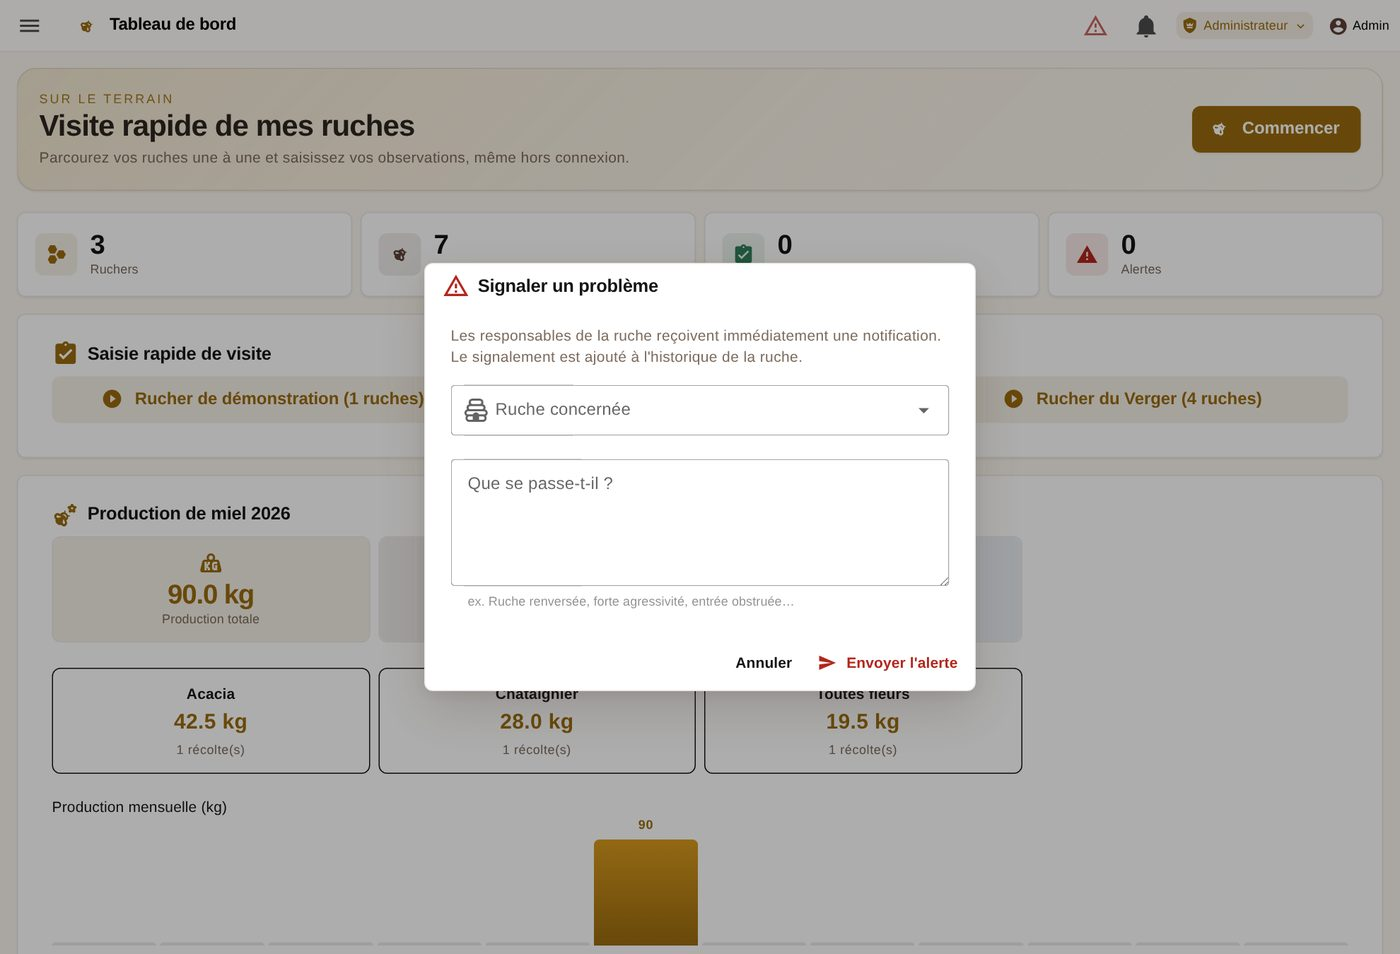
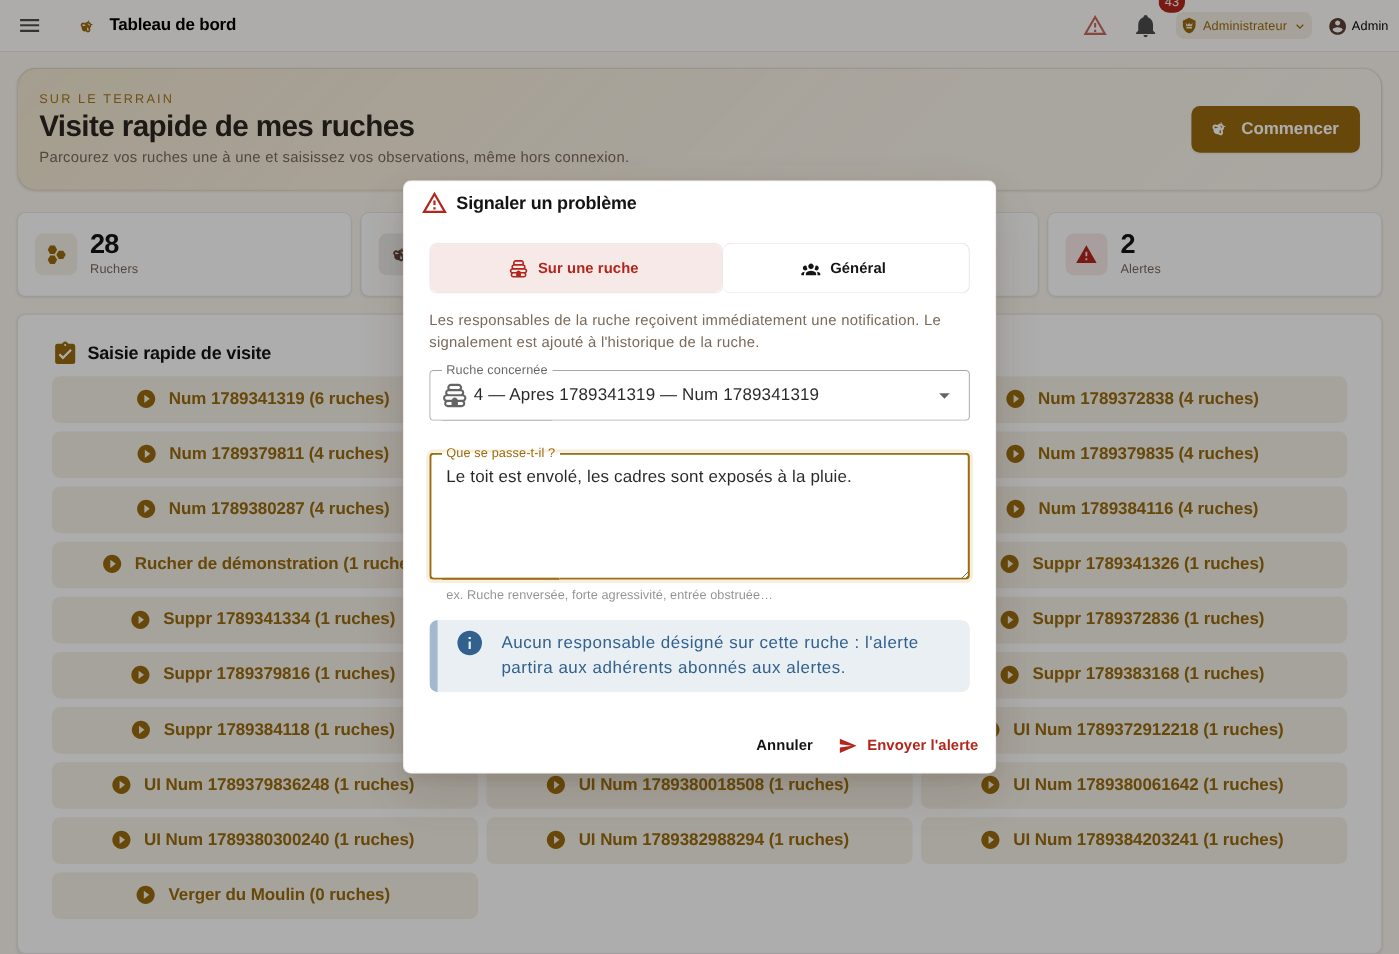
Signalement général, sans passer par une ruche
Signaler supposait de désigner une colonie. Une clôture ouverte, un
chemin impraticable, un enfumoir manquant n'ont pourtant rien à faire
dans l'historique d'une ruche : les y inscrire fausse le suivi de la
colonie, et l'information n'arrive pas aux bonnes personnes.

La fenêtre « Signaler » propose donc deux types. « Sur une ruche »
inchangé. « Général » prévient les administrateurs et les responsables
de rucher, et n'écrit rien dans l'historique d'une ruche : c'est une
notification, pas une observation.

Un rucher peut être désigné, sans être obligatoire — le signalement peut
concerner l'association entière. Quand il l'est, les responsables de ses
ruches sont prévenus en plus du bureau : ce sont eux qui sont sur place.
Un encadré annonce qui sera notifié avant l'envoi, comme pour l'alerte
sur une ruche : on ne signale pas dans le vide.

La trace va au journal d'activité, pas dans la ruche.

Claude-Session: https://claude.ai/code/session_01Cjb3j3YXGNGFMCv5gLZbMm

diff --git a/frontend/src/components/HiveAlertDialog.vue b/frontend/src/components/HiveAlertDialog.vue
@@ -1,5 +1,5 @@
 <template>
-  <v-dialog v-model="open" max-width="520">
+  <v-dialog v-model="open" max-width="560">
     <v-card>
       <v-card-title class="d-flex align-center">
         <v-icon class="mr-2" color="error">mdi-alert-outline</v-icon>
@@ -7,34 +7,77 @@
       </v-card-title>
 
       <v-card-text>
-        <p class="text-body-2 r-muted mb-4">
-          Les responsables de la ruche reçoivent immédiatement une notification.
-          Le signalement est ajouté à l'historique de la ruche.
-        </p>
+        <!-- Tout ne se passe pas dans une ruche : une clôture cassée ou un
+             voisin mécontent n'a rien à faire dans l'historique d'une colonie. -->
+        <v-btn-toggle
+          v-model="mode" mandatory divided variant="outlined"
+          color="error" class="d-flex mb-4"
+        >
+          <v-btn value="hive" class="flex-grow-1" prepend-icon="mdi-beehive-outline">
+            Sur une ruche
+          </v-btn>
+          <v-btn value="general" class="flex-grow-1" prepend-icon="mdi-account-group">
+            Général
+          </v-btn>
+        </v-btn-toggle>
 
-        <v-autocomplete
-          v-model="hiveId"
-          :items="hiveOptions"
-          item-title="label"
-          item-value="id"
-          label="Ruche concernée"
-          prepend-inner-icon="mdi-beehive-outline"
-          :loading="loading"
-          :error-messages="hiveError"
-        />
+        <!-- ── Signalement sur une ruche ── -->
+        <template v-if="mode === 'hive'">
+          <p class="text-body-2 r-muted mb-4">
+            Les responsables de la ruche reçoivent immédiatement une notification.
+            Le signalement est ajouté à l'historique de la ruche.
+          </p>
+
+          <v-autocomplete
+            v-model="hiveId"
+            :items="hiveOptions"
+            item-title="label"
+            item-value="id"
+            label="Ruche concernée"
+            prepend-inner-icon="mdi-beehive-outline"
+            :loading="loading"
+            :error-messages="hiveError"
+          />
+        </template>
+
+        <!-- ── Signalement général ── -->
+        <template v-else>
+          <p class="text-body-2 r-muted mb-4">
+            Pour ce qui ne concerne pas une colonie : clôture, accès, matériel
+            commun, voisinage, point à passer au bureau. <b>Rien n'est écrit
+            dans l'historique d'une ruche.</b>
+          </p>
+
+          <v-select
+            v-model="apiaryId"
+            :items="apiaryOptions"
+            item-title="name"
+            item-value="id"
+            label="Rucher concerné (facultatif)"
+            prepend-inner-icon="mdi-hexagon-multiple"
+            :loading="loading"
+            clearable
+            hint="Laissez vide si le signalement concerne l'association en général."
+            persistent-hint
+            class="mb-2"
+          />
+        </template>
 
         <v-textarea
           v-model="message"
           label="Que se passe-t-il ?"
-          hint="ex. Ruche renversée, forte agressivité, entrée obstruée…"
+          :hint="mode === 'hive'
+            ? 'ex. Ruche renversée, forte agressivité, entrée obstruée…'
+            : 'ex. Clôture ouverte, chemin impraticable, enfumoir manquant…'"
           persistent-hint
           rows="4"
           maxlength="500"
+          class="mt-2"
           :error-messages="messageError"
         />
 
-        <v-alert v-if="managersHint" type="info" variant="tonal" density="compact">
-          {{ managersHint }}
+        <v-alert v-if="destinataires" type="info" variant="tonal" density="compact" class="mt-4">
+          {{ destinataires }}
         </v-alert>
       </v-card-text>
 
@@ -42,7 +85,7 @@
         <v-spacer />
         <v-btn @click="open = false">Annuler</v-btn>
         <v-btn color="error" :loading="sending" prepend-icon="mdi-send" @click="send">
-          Envoyer l'alerte
+          {{ mode === 'hive' ? "Envoyer l'alerte" : 'Envoyer le signalement' }}
         </v-btn>
       </v-card-actions>
     </v-card>
@@ -57,10 +100,13 @@ import { hiveLabel } from '../services/hive'
 
 const open = defineModel({ type: Boolean, default: false })
 
+const mode = ref('hive')
 const hives = ref([])
+const apiaries = ref([])
 const loading = ref(false)
 const sending = ref(false)
 const hiveId = ref(null)
+const apiaryId = ref(null)
 const message = ref('')
 const hiveError = ref('')
 const messageError = ref('')
@@ -75,8 +121,18 @@ const hiveOptions = computed(() =>
   })),
 )
 
+const apiaryOptions = computed(() => apiaries.value.map((a) => ({ id: a.id, name: a.name })))
+
 // Rappel de qui sera prévenu : on n'envoie pas une alerte « dans le vide ».
-const managersHint = computed(() => {
+const destinataires = computed(() => {
+  if (mode.value === 'general') {
+    const ou = apiaryId.value
+      ? apiaries.value.find((a) => a.id === apiaryId.value)?.name
+      : null
+    return ou
+      ? `Seront notifiés : les administrateurs, les responsables de rucher, et les responsables des ruches du rucher « ${ou} ».`
+      : 'Seront notifiés : les administrateurs et les responsables de rucher.'
+  }
   if (!hiveId.value) return ''
   const h = hives.value.find((x) => x.id === hiveId.value)
   const names = (h?.managers || []).map((m) => m.name).filter(Boolean)
@@ -86,13 +142,17 @@ const managersHint = computed(() => {
   return 'Sera notifié : ' + names.join(', ') + '.'
 })
 
-async function loadHives() {
+async function loadData() {
   loading.value = true
   try {
-    const { data } = await api.get('/apiaries/hives/all')
-    hives.value = data
+    const [h, a] = await Promise.all([
+      api.get('/apiaries/hives/all'),
+      api.get('/apiaries/'),
+    ])
+    hives.value = h.data
+    apiaries.value = a.data
   } catch (e) {
-    toastError(apiError(e, 'Impossible de charger la liste des ruches'))
+    toastError(apiError(e, 'Impossible de charger les ruchers et les ruches'))
   } finally {
     loading.value = false
   }
@@ -100,28 +160,44 @@ async function loadHives() {
 
 watch(hiveId, (v) => { if (v) hiveError.value = '' })
 watch(message, (v) => { if (v && v.trim()) messageError.value = '' })
+// Changer de type de signalement ne doit pas laisser traîner le reproche
+// adressé à l'autre formulaire.
+watch(mode, () => { hiveError.value = ''; messageError.value = '' })
 
 watch(open, (v) => {
   if (!v) return
+  mode.value = 'hive'
   hiveId.value = null
+  apiaryId.value = null
   message.value = ''
   hiveError.value = ''
   messageError.value = ''
-  if (!hives.value.length) loadHives()
+  if (!hives.value.length || !apiaries.value.length) loadData()
 })
 
 async function send() {
-  hiveError.value = hiveId.value ? '' : 'Choisissez la ruche concernée.'
+  const general = mode.value === 'general'
+  hiveError.value = general || hiveId.value ? '' : 'Choisissez la ruche concernée.'
   messageError.value = message.value.trim() ? '' : 'Décrivez le problème en quelques mots.'
   if (hiveError.value || messageError.value) return
 
   sending.value = true
   try {
-    await api.post('/visits/alert', { hive_id: hiveId.value, message: message.value.trim() })
-    toastSuccess('Alerte envoyée aux responsables de la ruche')
+    if (general) {
+      const { data } = await api.post('/notifications/report', {
+        message: message.value.trim(),
+        apiary_id: apiaryId.value ?? null,
+      })
+      toastSuccess(data.recipients
+        ? `Signalement transmis à ${data.recipients} personne${data.recipients > 1 ? 's' : ''}`
+        : 'Signalement transmis')
+    } else {
+      await api.post('/visits/alert', { hive_id: hiveId.value, message: message.value.trim() })
+      toastSuccess('Alerte envoyée aux responsables de la ruche')
+    }
     open.value = false
   } catch (e) {
-    toastError(apiError(e, "L'alerte n'a pas pu être envoyée"))
+    toastError(apiError(e, "Le signalement n'a pas pu être envoyé"))
   } finally {
     sending.value = false
   }

diff --git a/frontend/src/views/docs/GuideVisitesView.vue b/frontend/src/views/docs/GuideVisitesView.vue
@@ -119,17 +119,32 @@ const sections = [
     ],
   },
   {
-    id: 'alerte', t: 'Signaler un problème sur une ruche',
+    id: 'alerte', t: 'Signaler un problème',
     blocks: [
-      { p: "Hors visite — un passage devant le rucher, un appel d'un voisin — le <b>triangle rouge</b> de la barre du haut permet d'alerter depuis n'importe quel écran. Les <b>responsables de la ruche</b> reçoivent aussitôt une notification." },
+      { p: "Hors visite — un passage devant le rucher, un appel d'un voisin — le <b>triangle rouge</b> de la barre du haut permet d'alerter depuis n'importe quel écran. Deux types de signalement sont proposés en haut de la fenêtre." },
+      { table: { head: ['Type', 'Pour quoi', 'Qui est prévenu'], rows: [
+        ['<b>Sur une ruche</b>', "Ce qui concerne une colonie : toit envolé, agressivité, entrée obstruée, peu d'activité au trou de vol.", "Les <b>responsables de cette ruche</b>. Le signalement est ajouté à l'<b>historique de la ruche</b> et aux <b>Alertes actives</b> du tableau de bord."],
+        ['<b>Général</b>', "Ce qui ne concerne aucune colonie : clôture, chemin d'accès, matériel commun, voisinage, point à passer au bureau.", "Les <b>administrateurs</b> et les <b>responsables de rucher</b>. <b>Rien n'est écrit dans l'historique d'une ruche.</b>"],
+      ] } },
+      { img: 'g-signaler.jpg', cap: "Signaler un problème sur une ruche." },
+      { h3: 'Signaler un problème sur une ruche' },
       { steps: [
         "Cliquez sur le <b>triangle rouge</b> ⚠ en haut de l'écran.",
+        "Laissez le type sur <b>Sur une ruche</b>.",
         "Choisissez la <b>ruche concernée</b> dans la liste.",
         "Décrivez le problème dans <b>« Que se passe-t-il ? »</b> — soyez concret : « toit envolé », « peu d'activité au trou de vol ».",
         "Cliquez sur <b>Envoyer l'alerte</b>.",
       ] },
-      { img: 'g-signaler.jpg', cap: "Signaler un problème." },
       { p: "L'alerte apparaît ensuite dans <b>Alertes actives</b> sur le tableau de bord, jusqu'à ce qu'elle soit traitée." },
+      { h3: 'Signalement général' },
+      { steps: [
+        "Cliquez sur le <b>triangle rouge</b> ⚠, puis sur <b>Général</b>.",
+        "Choisissez éventuellement le <b>rucher concerné</b> — laissez vide si cela touche l'association en général.",
+        "Décrivez la situation, puis cliquez sur <b>Envoyer le signalement</b>.",
+      ] },
+      { img: 'g-signaler-general.jpg', cap: 'Un signalement général.' },
+      { note: "Un encadré rappelle, avant l'envoi, <b>qui sera prévenu</b>. En désignant un rucher, les responsables de ses ruches le sont en plus du bureau : ce sont eux qui sont sur place." },
+      { tip: "Un signalement général n'entre dans l'historique d'aucune colonie : le suivi des ruches reste propre, et le message arrive quand même à qui de droit." },
     ],
   },
 ]

diff --git a/backend/app/routers/notifications.py b/backend/app/routers/notifications.py
@@ -7,12 +7,15 @@ from datetime import datetime
 from sqlalchemy import select, delete, func, desc
 
 from app.database import get_db
-from app.models.user import User, RoleEnum
+from app.models.user import User, UserRole, RoleEnum
 from app.models.notification import PushSubscription, NotificationPref, InboxMessage
-from app.schemas.notification import SubscribeIn, UnsubscribeIn, PrefsOut, PrefsUpdate
+from app.models.apiary import Apiary, Hive, hive_managers
+from app.schemas.notification import (SubscribeIn, UnsubscribeIn, PrefsOut,
+                                      PrefsUpdate, GeneralReportIn)
 from app.utils.auth import get_current_user, require_roles
 from app.utils.push import (get_or_create_vapid, send_push_to_user,
-                            resolve_vapid_subject, LAST_RESULT)
+                            resolve_vapid_subject, notify_users, LAST_RESULT)
+from app.utils.audit import log_action
 
 router = APIRouter(prefix="/api/notifications", tags=["notifications"])
 
@@ -264,4 +267,69 @@ async def diagnostics(
         "users_without_prefs": [u["name"] for u in users if u["enabled"] is None],
         "last_send": LAST_RESULT or None,
         "users": users,
+    }
+
+
+@router.post("/report", status_code=201)
+async def general_report(
+    body: GeneralReportIn,
+    db: AsyncSession = Depends(get_db),
+    user: User = Depends(get_current_user),
+):
+    """Signalement **général** : il ne concerne aucune ruche en particulier.
+
+    Le pendant de ``/api/visits/alert`` pour tout ce qui n'est pas une
+    colonie : la clôture du rucher, une remarque d'un voisin, un point à
+    passer au bureau. Rien n'est écrit dans l'historique d'une ruche — un tel
+    message y serait faux, et polluerait le suivi de la colonie.
+
+    Prévient les **administrateurs** et les **responsables de rucher**, plus,
+    quand un rucher est désigné, celles et ceux qui ont la charge de ses
+    ruches : ce sont les personnes présentes sur place.
+    """
+    message = body.message.strip()
+    if not message:
+        raise HTTPException(400, "Décrivez le problème en quelques mots.")
+
+    # Le bureau : administrateurs et responsables de rucher.
+    res = await db.execute(
+        select(User.id)
+        .join(UserRole, UserRole.user_id == User.id)
+        .where(User.is_active.is_(True),
+               UserRole.role.in_([RoleEnum.ADMIN, RoleEnum.YARD_MANAGER]))
+    )
+    destinataires = set(res.scalars().all())
+
+    apiary = None
+    if body.apiary_id is not None:
+        apiary = await db.get(Apiary, body.apiary_id)
+        if not apiary:
+            raise HTTPException(404, "Rucher introuvable")
+        # Les responsables des ruches de ce rucher sont sur place : ils sont
+        # concernés au même titre que le bureau.
+        res = await db.execute(
+            select(hive_managers.c.user_id)
+            .join(Hive, Hive.id == hive_managers.c.hive_id)
+            .where(Hive.apiary_id == apiary.id)
+        )
+        destinataires |= set(res.scalars().all())
+
+    destinataires.discard(user.id)
+
+    qui = f"{user.first_name} {user.last_name}".strip() or user.email
+    ou = f" — {apiary.name}" if apiary else ""
+    titre = f"⚠ Signalement général{ou}"
+    texte = f"{qui} : {message[:180]}"
+
+    await log_action(db, user.id, "general_report", "apiary",
+                     apiary.id if apiary else None, details=message[:200])
+
+    if destinataires:
+        notify_users(sorted(destinataires), titre, texte, "/app",
+                     exclude_user_id=user.id)
+
+    return {
+        "detail": "Signalement transmis",
+        "recipients": len(destinataires),
+        "apiary": apiary.name if apiary else None,
     }

diff --git a/backend/app/releases.py b/backend/app/releases.py
@@ -10,6 +10,16 @@ Convention : la version la plus récente en tête.
 
 RELEASES = [
     {
+        "version": "1.8.5",
+        "date": "2026-09-14",
+        "title": "Signalement général, sans passer par une ruche",
+        "highlights": [
+            "Le bouton « Signaler » propose désormais deux types : sur une ruche, comme avant, ou général — clôture, accès, matériel commun, voisinage, point à passer au bureau.",
+            "Un signalement général prévient les administrateurs et les responsables de rucher, et n'écrit rien dans l'historique d'une ruche.",
+            "En désignant un rucher, les responsables de ses ruches sont prévenus en plus : ce sont eux qui sont sur place.",
+        ],
+    },
+    {
         "version": "1.8.4",
         "date": "2026-09-14",
         "title": "Les e-mails partent sans réglage préalable",

diff --git a/backend/app/schemas/notification.py b/backend/app/schemas/notification.py
@@ -38,3 +38,13 @@ class PrefsUpdate(BaseModel):
     sanitary: Optional[bool] = None
     treasury: Optional[bool] = None
     events: Optional[bool] = None
+
+
+class GeneralReportIn(BaseModel):
+    """Signalement qui ne porte sur aucune ruche.
+
+    ``apiary_id`` est facultatif : un signalement peut concerner un rucher
+    précis (clôture, accès, voisinage) ou l'association en général.
+    """
+    message: str
+    apiary_id: Optional[int] = None
